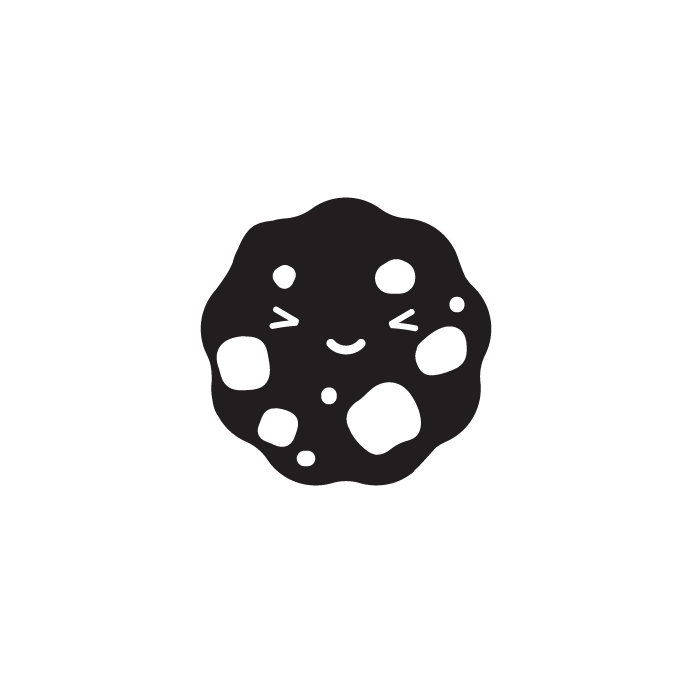
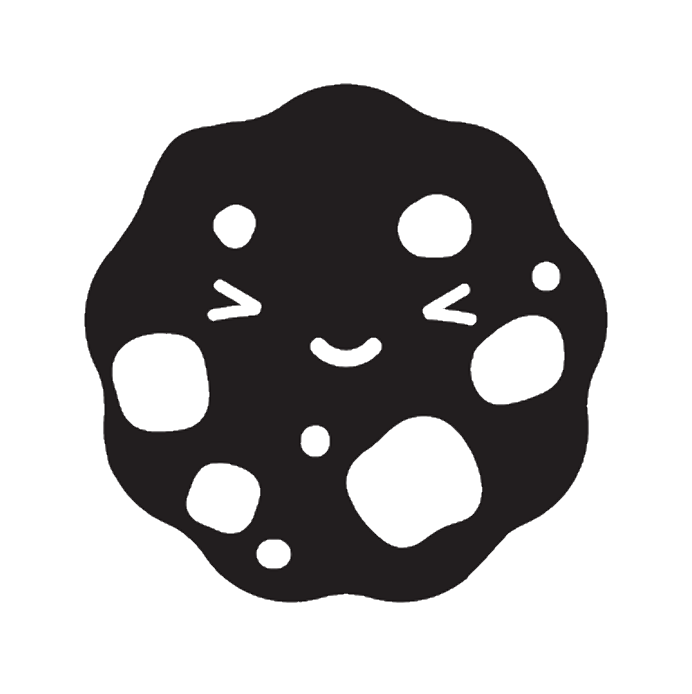
Substituir imagens no post de apresentacao

Changed region(s): [[0.1214, 0.121, 0.8801, 0.8775]]

diff --git a/site/content/values/_index.md b/site/content/values/_index.md
@@ -11,9 +11,9 @@ values:
   - heading: 
     text: >
       E sabe o que Zazá ouvia a cada vez que compartilhava uma nova fornada de cookies? “Que delícia! Você tinha que vender isso!”. Pois assim a ideia foi amadurecendo, Zazá passou pelo árduo trabalho de provar novas e tradicionais receitas, e agora divide sua paixão e suas melhores criações com vocês.
-    imageUrl: /img/zaza-02.jpg
+    imageUrl: /img/icone-cookie_mordido@3x.png
   - heading: 
     text: >
       Como toda cozinheira que bota o coração nas mãos, Zazá adora ver a reação de quem prova suas delícias. Os Cookies da Zazá te fizeram feliz? Faça a Zazá feliz compartilhando uma foto desse momento com a hashtag #cookiesdazaza. O cookie preferido da Zazá é o de pedaços de chocolate com creme de avelã. E o seu, já descobriu?
-    imageUrl: /img/zaza-03.jpg
+    imageUrl: /img/icone-cookie@3x.png
 ---
